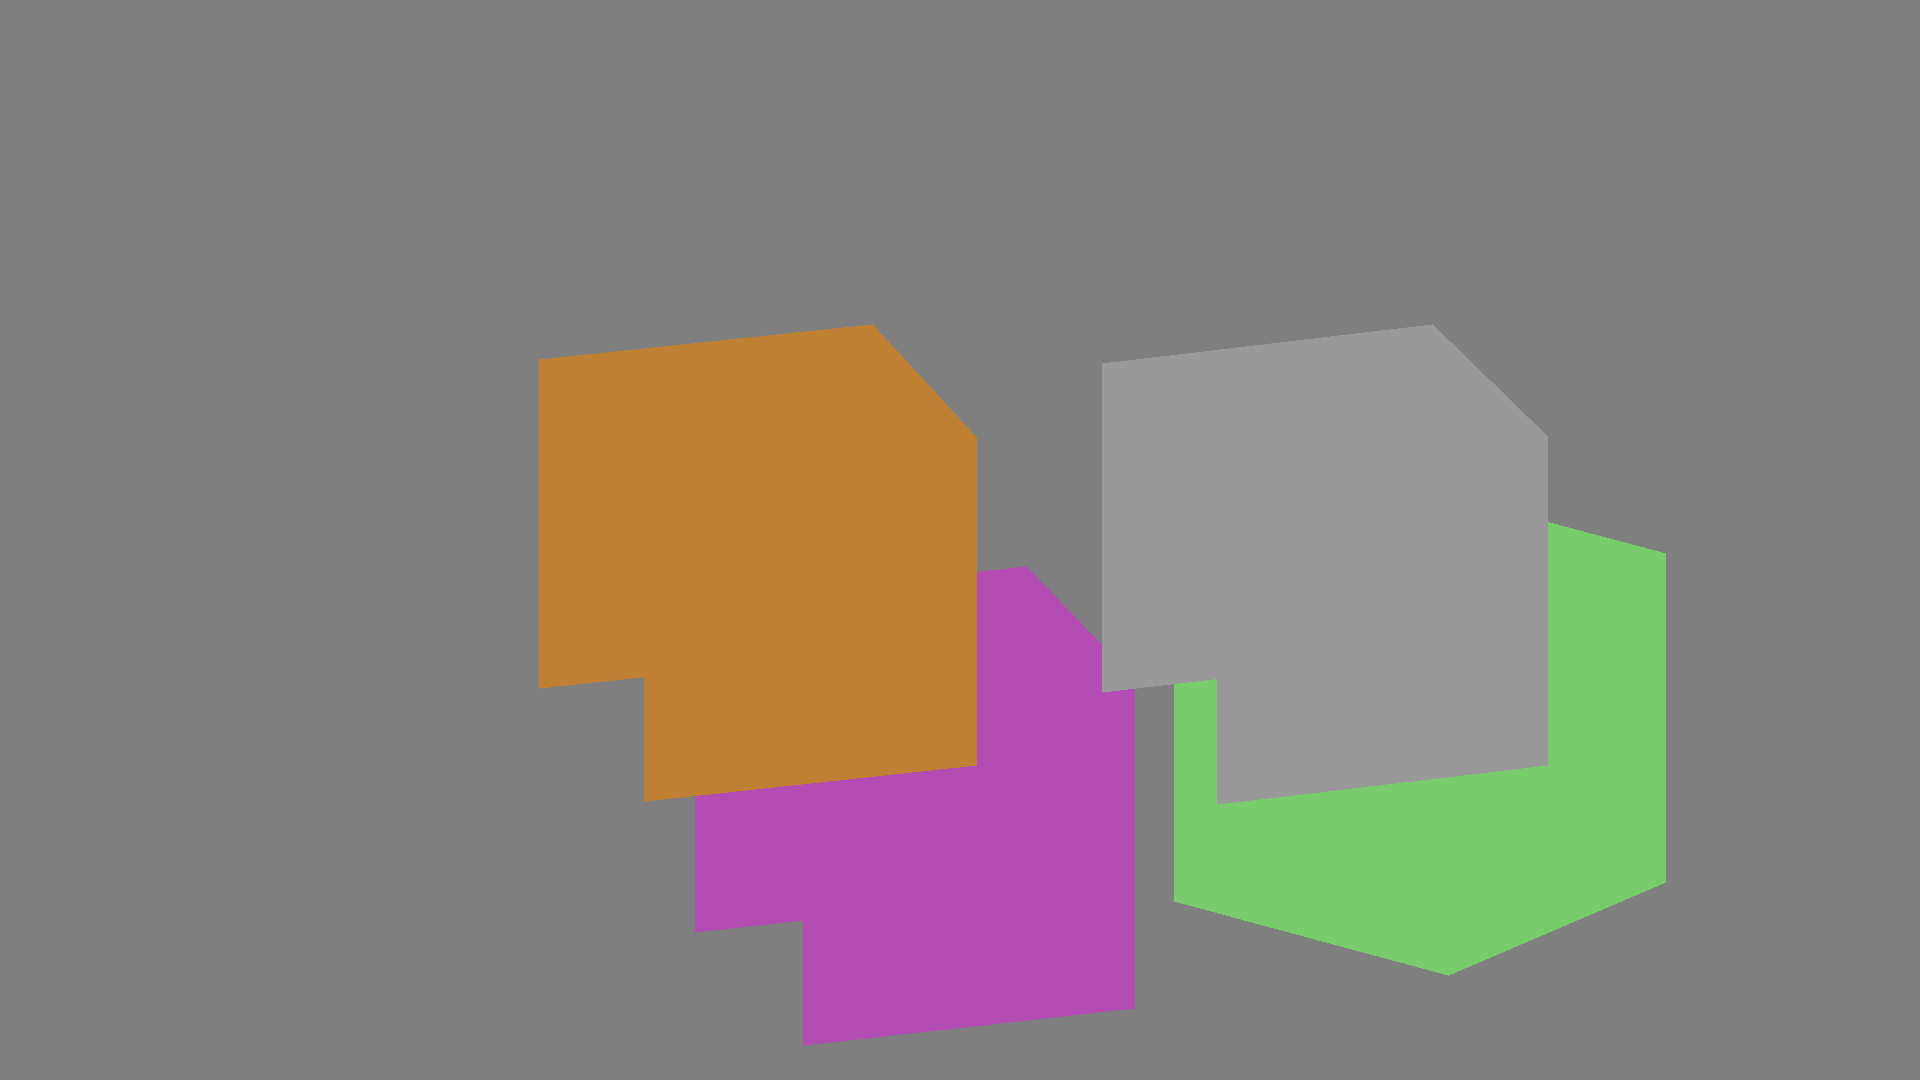
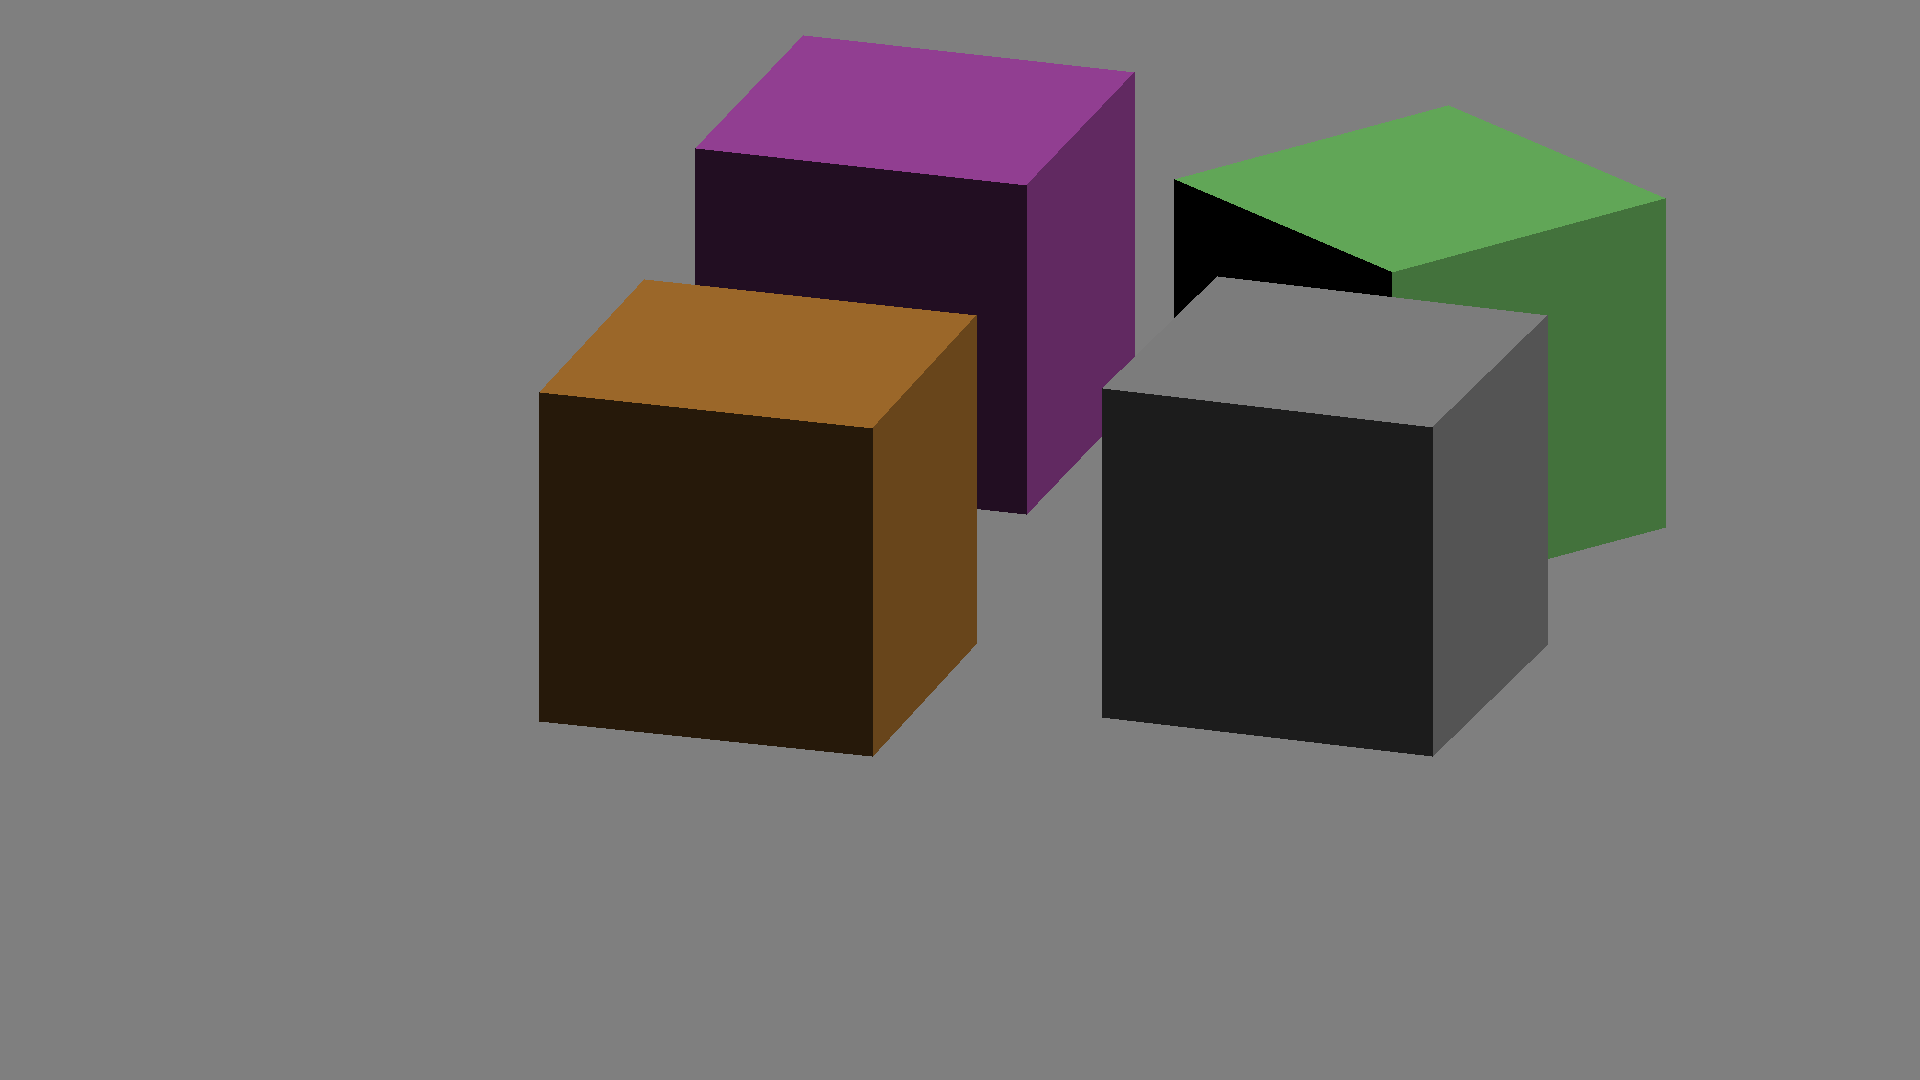
add corection to colouuur

diff --git a/final_project_cubes_noga_levy_tali_kalev.py b/final_project_cubes_noga_levy_tali_kalev.py
@@ -155,7 +155,8 @@ def draw_face(image_pil, face_points_2d, cube_colour, face_normal_vector):
     '''
     # Find light source's relative angle on object and change colour accordingly
     light = np.dot(face_normal_vector, LIGHT_SOURCE)        
-    cube_colour = tuple(int(value * light) for value in cube_colour)
+    I = 0.15 + 0.85 * (max(0, light)) #noga: in "Tips" file it says to write 0.05 + 0.95 * max. but i changed it to 0.15 and 0.85
+    cube_colour = tuple(int(value * I) for value in cube_colour)
 
     # Draw face of cube using 2D points + calculated colour
     face_points = [(point[0], point[1]) for point in face_points_2d]
@@ -199,8 +200,8 @@ def draw_order(camera_pos, cubes):
 # ====================MAIN FUNCTION====================
 if __name__ == "__main__":
     # Creating size + background
-    image = create_image(IMAGE_HEIGHT, IMAGE_WIDTH)
-    image_pil = Image.fromarray(image, 'RGB')
+    image_np = create_image(IMAGE_HEIGHT, IMAGE_WIDTH)
+    image_pil = Image.fromarray(image_np, 'RGB')
 
     # Find the order in which to draw the cubes depending on distance from camera
     cubes = [CUBE1, CUBE2, CUBE3, CUBE4]
@@ -210,6 +211,19 @@ if __name__ == "__main__":
     for cube in order_to_draw:
         print(cube)
         create_cube(cube.position, cube.rotation, image_pil, cube.colour)
+
+    # gamma correction:
+    image_np = np.array(image_pil)
+    # Divide each RGB value by 255
+    image_np = image_np / 255.0
+    # Take the square root of each normalized RGB value
+    image_np = np.sqrt(image_np)
+    # Multiply each square root value by 255 to scale back to the original range
+    image_np = image_np * 255
+    # Convert the result back to integers
+    image_pil = image_np.astype(np.uint8)
+    # Convert the result back to PIL
+    image_pil = Image.fromarray(image_pil, 'RGB')
 
     # Save and show image
     image_pil.save('image2.png')
